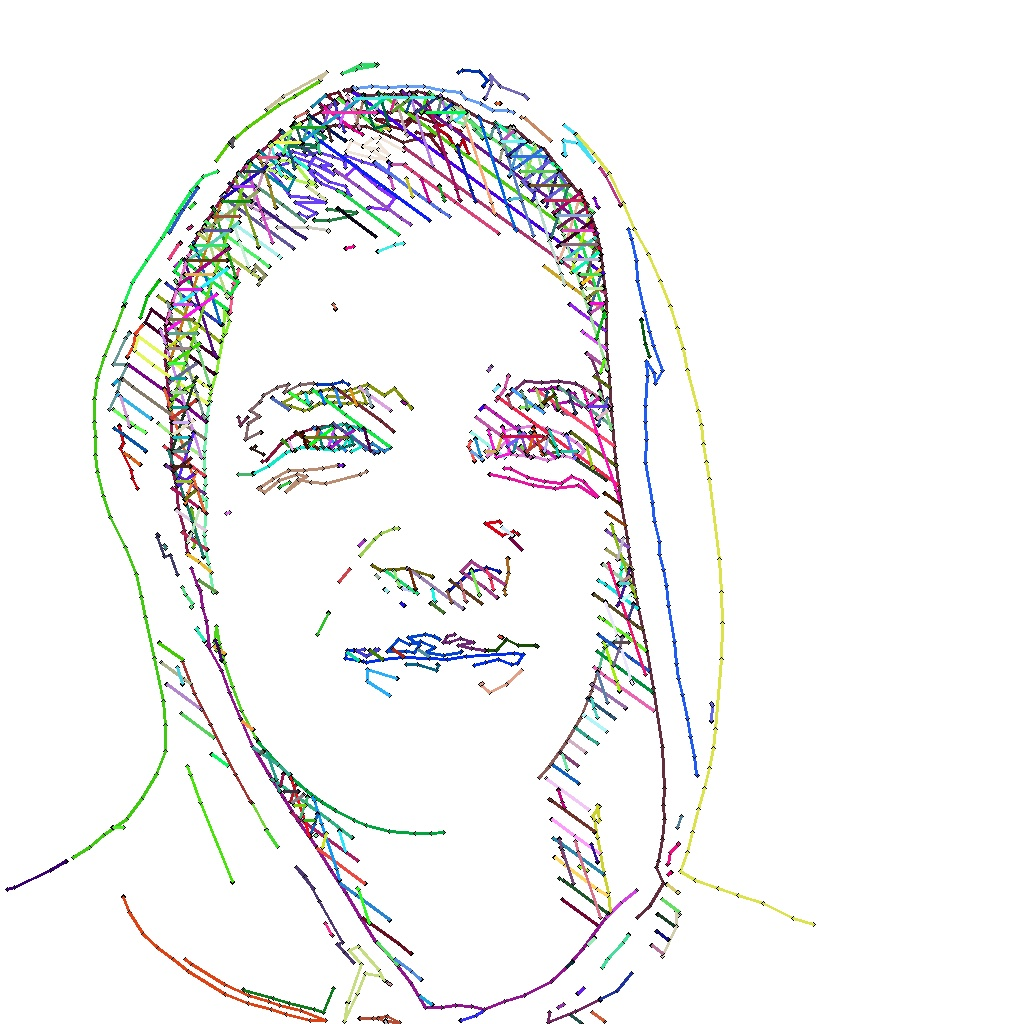
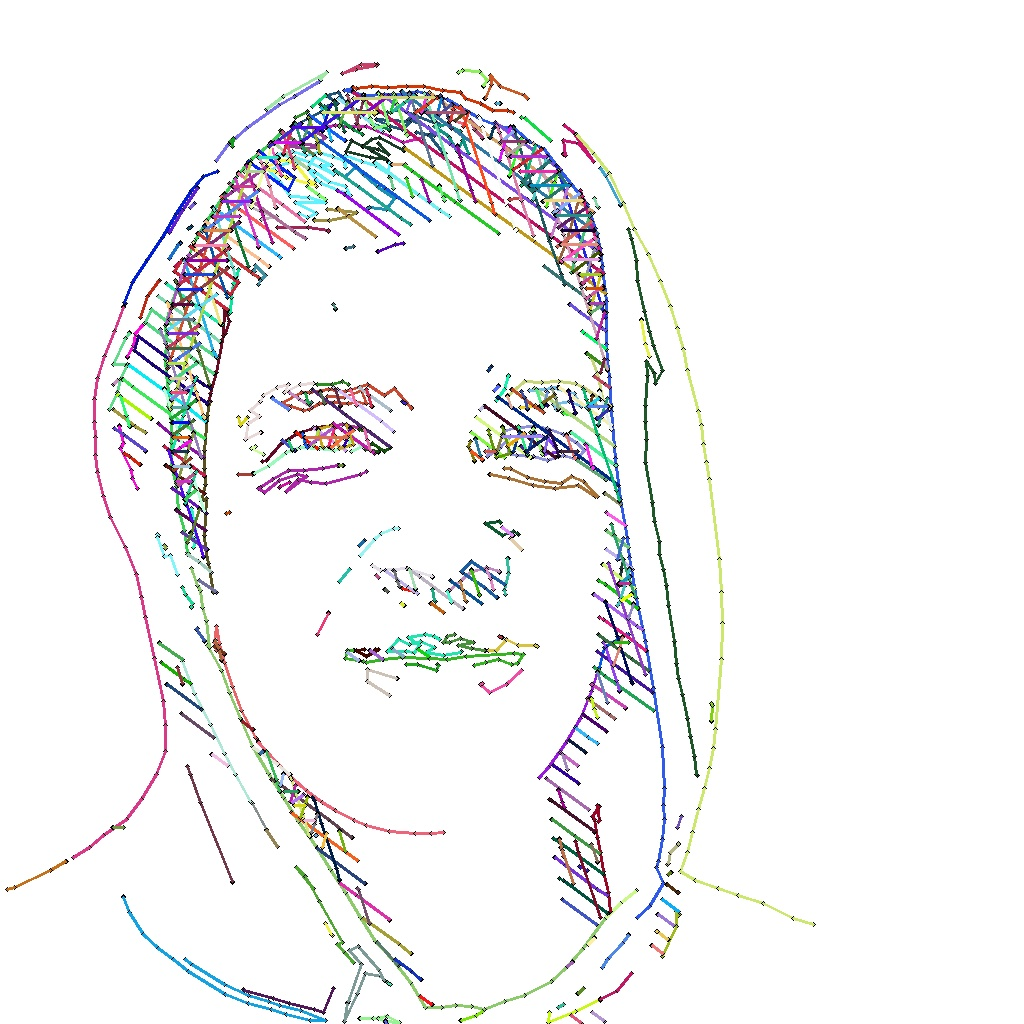
adaptive

diff --git a/full_face_processing.py b/full_face_processing.py
@@ -182,7 +182,7 @@ def process_edges_raw(filename, blur_radius = 17, lower_thresh = 0,
         t0 = time.time()
         targetPoint = sortedPoints[i]
 
-        if i % (len_points//200) == 0:
+        if i % 50 == 0:
 
             print('\r', end="")
             print(f"{i/(len(points) + len(sortedPoints)) * 100: .2f}% complete", end = "")
@@ -210,7 +210,7 @@ def process_edges_raw(filename, blur_radius = 17, lower_thresh = 0,
     print("")
     print(f"took {time.time()-tt0: .2f} seconds to sort all {len(sortedPoints)} points")
     # filtered path = []
-
+    tt0 = time.time()
 
     segments = []
     index = 0
@@ -324,7 +324,7 @@ def process_edges_raw(filename, blur_radius = 17, lower_thresh = 0,
 
     # new_points = calc_path(segments, max_accel, max_lr, turn_vel_multiplier, freq)
     new_points = segments
-    
+
     return new_points
 
 def process_shading_raw(filename, blur_radius = 3, line_dist = 20, theta = None, segmentSplitDistance = 20, areaCut = 10,
@@ -458,10 +458,10 @@ def process_shading_raw(filename, blur_radius = 3, line_dist = 20, theta = None,
             #     break
 
 
-            # if i % (len_points//200) == 0:
+            if i % 50 == 0:
 
-            #     print('\r', end="")
-            #     print(f"{i/(len(points) + len(sortedPoints)) * 100: .2f}% complete", end = "")
+                print('\r', end="")
+                print(f"{i/(len(points) + len(sortedPoints)) * 100: .2f}% complete", end = "")
             
             nearby = check_close(*targetPoint)
 
@@ -568,7 +568,7 @@ def process_shading_raw(filename, blur_radius = 3, line_dist = 20, theta = None,
 
 
 
-        print("{} segments with a total of {} points".format(len(segments), sum(len(seg) for seg in segments)))
+        # print("{} segments with a total of {} points".format(len(segments), sum(len(seg) for seg in segments)))
 
 
         if plot_steps:
@@ -612,13 +612,16 @@ def process_shading_raw(filename, blur_radius = 3, line_dist = 20, theta = None,
     return new_points
 
 def process_combo_raw(filename):
-    
+
+    print("starting edge processing")
     segments = process_edges_raw(filename, blur_radius=15, lower_thresh=5, upper_thresh=40, areaCut=10, minNumPixels=5, segmentSplitDistance=20)
+    print("starting shading processing")
     segments.extend(process_shading_raw(filename,blur_radius=21, line_dist= 20, areaCut=5))
-    
+    print("finished pre processing")
     return segments
 
 def process_combo(filename, max_accel, max_radius, turn_vel_multiplier, freq):
+
     return calc_path(process_combo_raw(filename), max_accel, max_radius, turn_vel_multiplier, freq)
 
 

diff --git a/main.py b/main.py
@@ -104,7 +104,7 @@ def main():
     #     segments = pickle.load(file)
     #     # print(segments)
     freq = 60
-    segments = process_combo("small_obama.jpg", 10, .01, 1, freq)
+    segments = process_combo("brian.jpg", 10, .01, 1, freq)
 
 
     gantry = gantry.Gantry()
@@ -169,8 +169,10 @@ def main():
 
             move(point)
 
-        print(f"segment written at {1/(time.perf_counter()-t1) * len(seg)} hz")
+        time.sleep(1/freq)
 
+
+        print(f"segment written at {1 / (time.perf_counter() - t1) * len(seg)} hz")
         pen_up()
 
     print("done")

diff --git a/posterize.py b/posterize.py
@@ -143,8 +143,8 @@ def get_spinny(im, line_dist=30, theta=None, thresholds = [30, 50, 80, 85, 90]):
     for thresh in thresholds:
         out = cv2.adaptiveThreshold(im, 255, cv2.ADAPTIVE_THRESH_GAUSSIAN_C, cv2.THRESH_BINARY, 501, thresh)
         images.append(out)
-        cv2.imshow("test", out)
-        cv2.waitKey(0)
+        # cv2.imshow("test", out)
+        # cv2.waitKey(0)
 
 
     # indices = np.arange(0, 256)  # List of all colors
